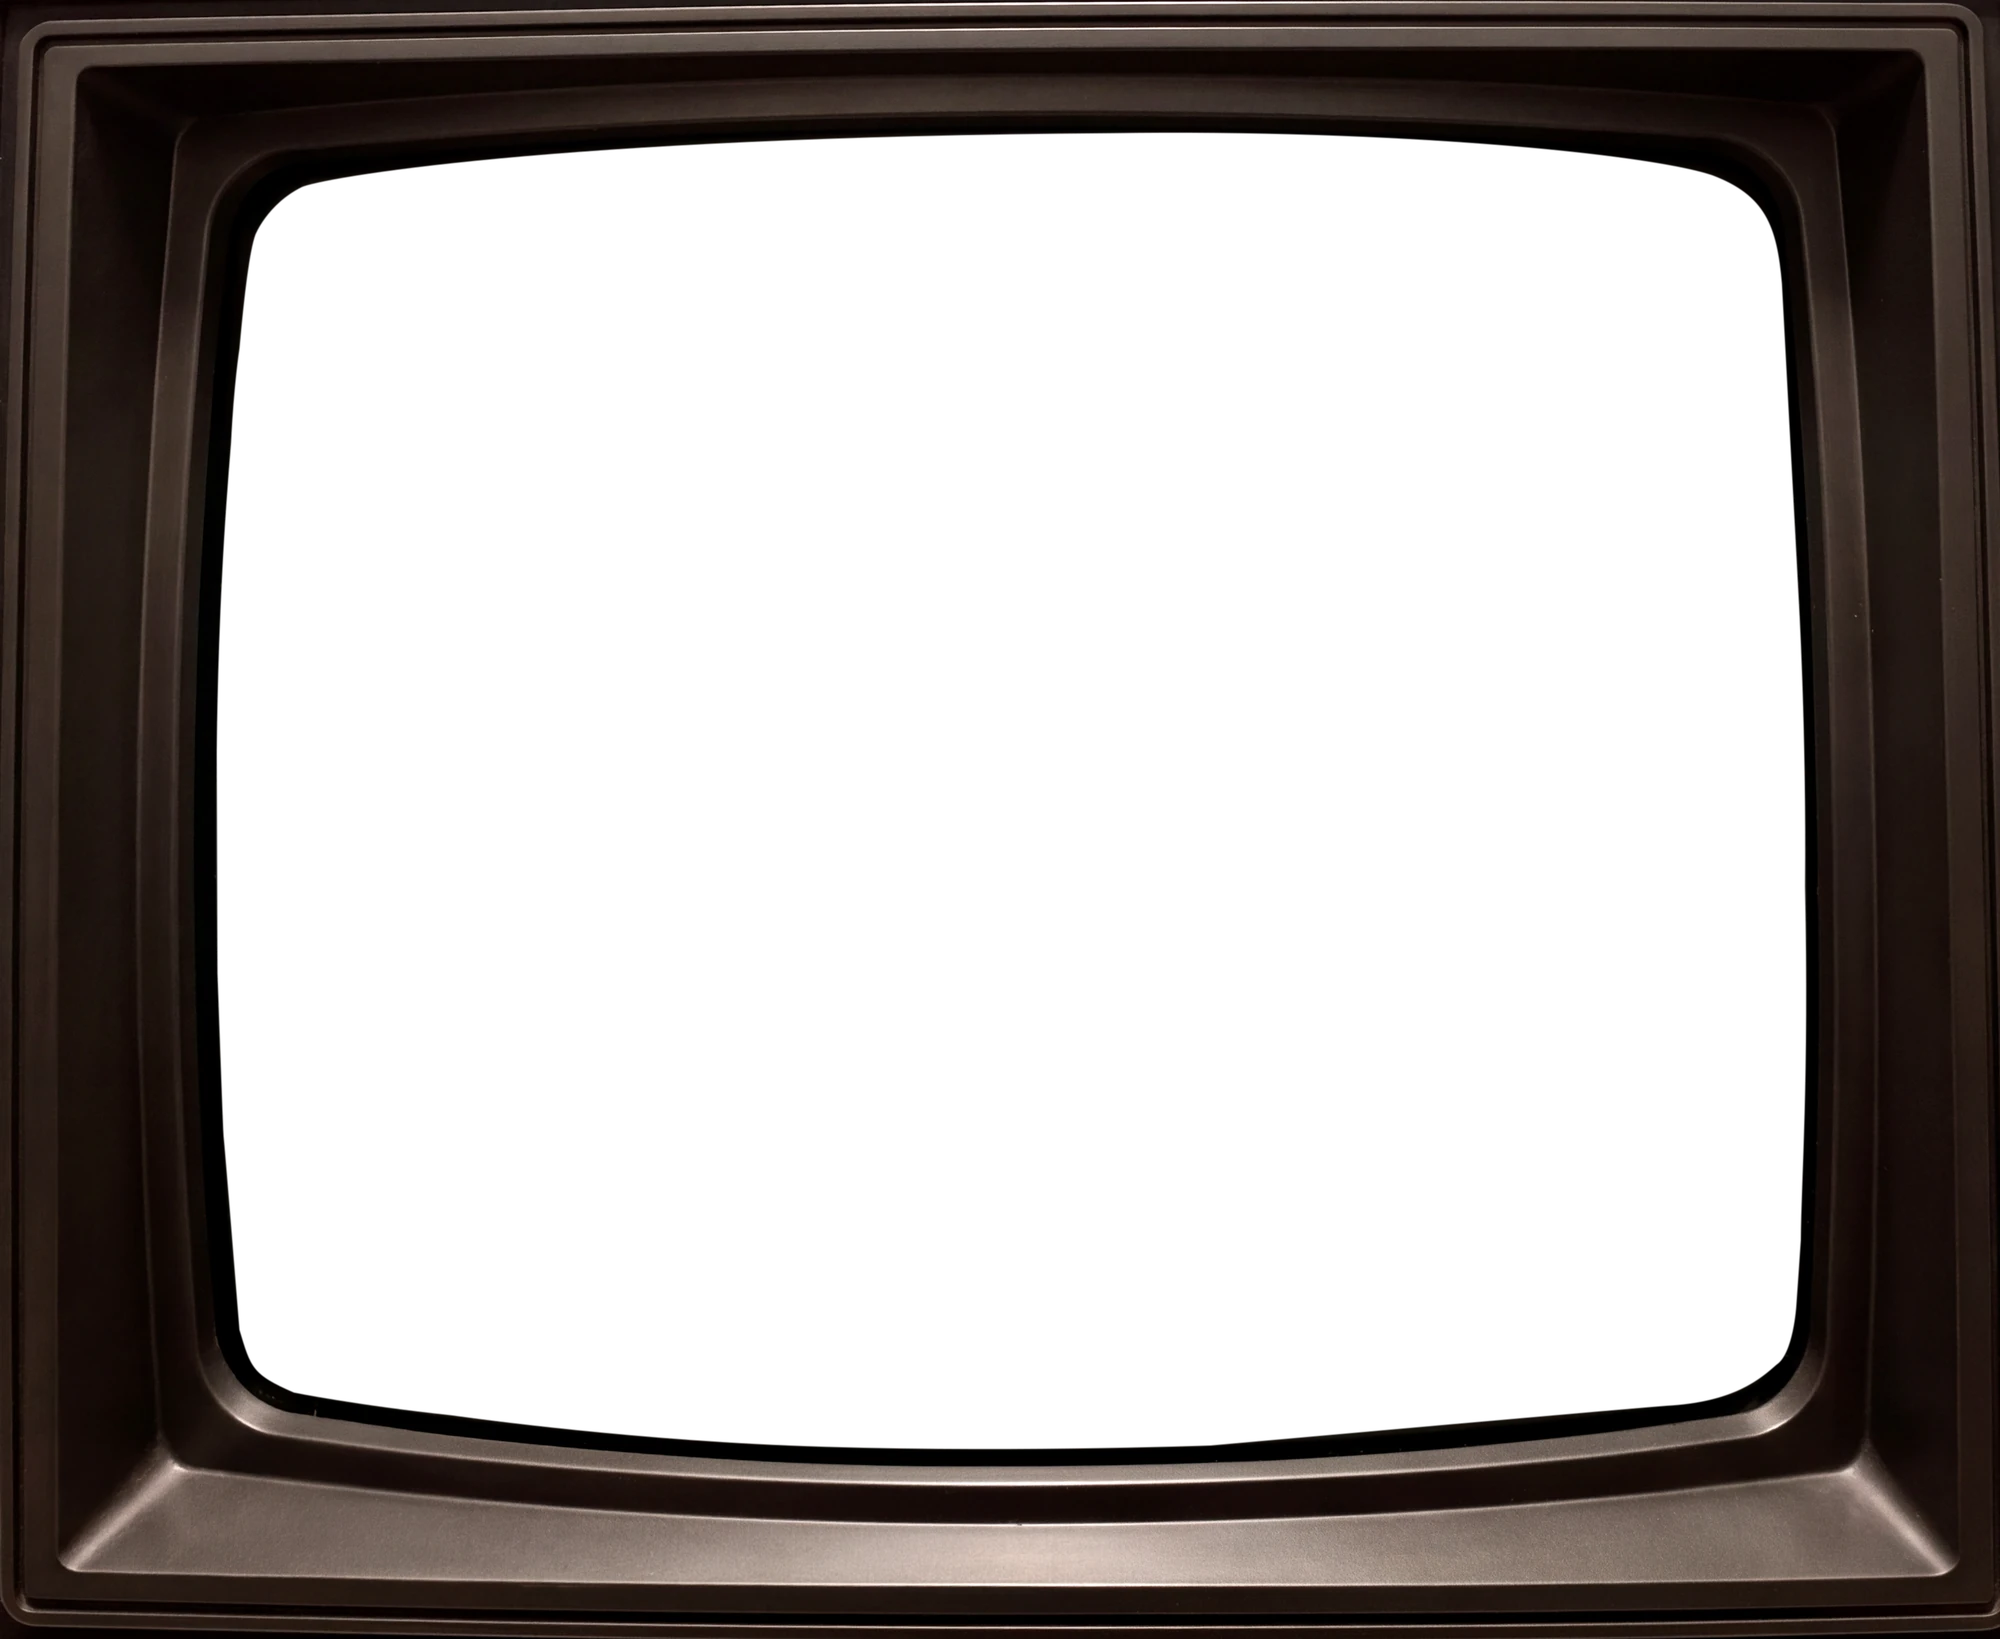
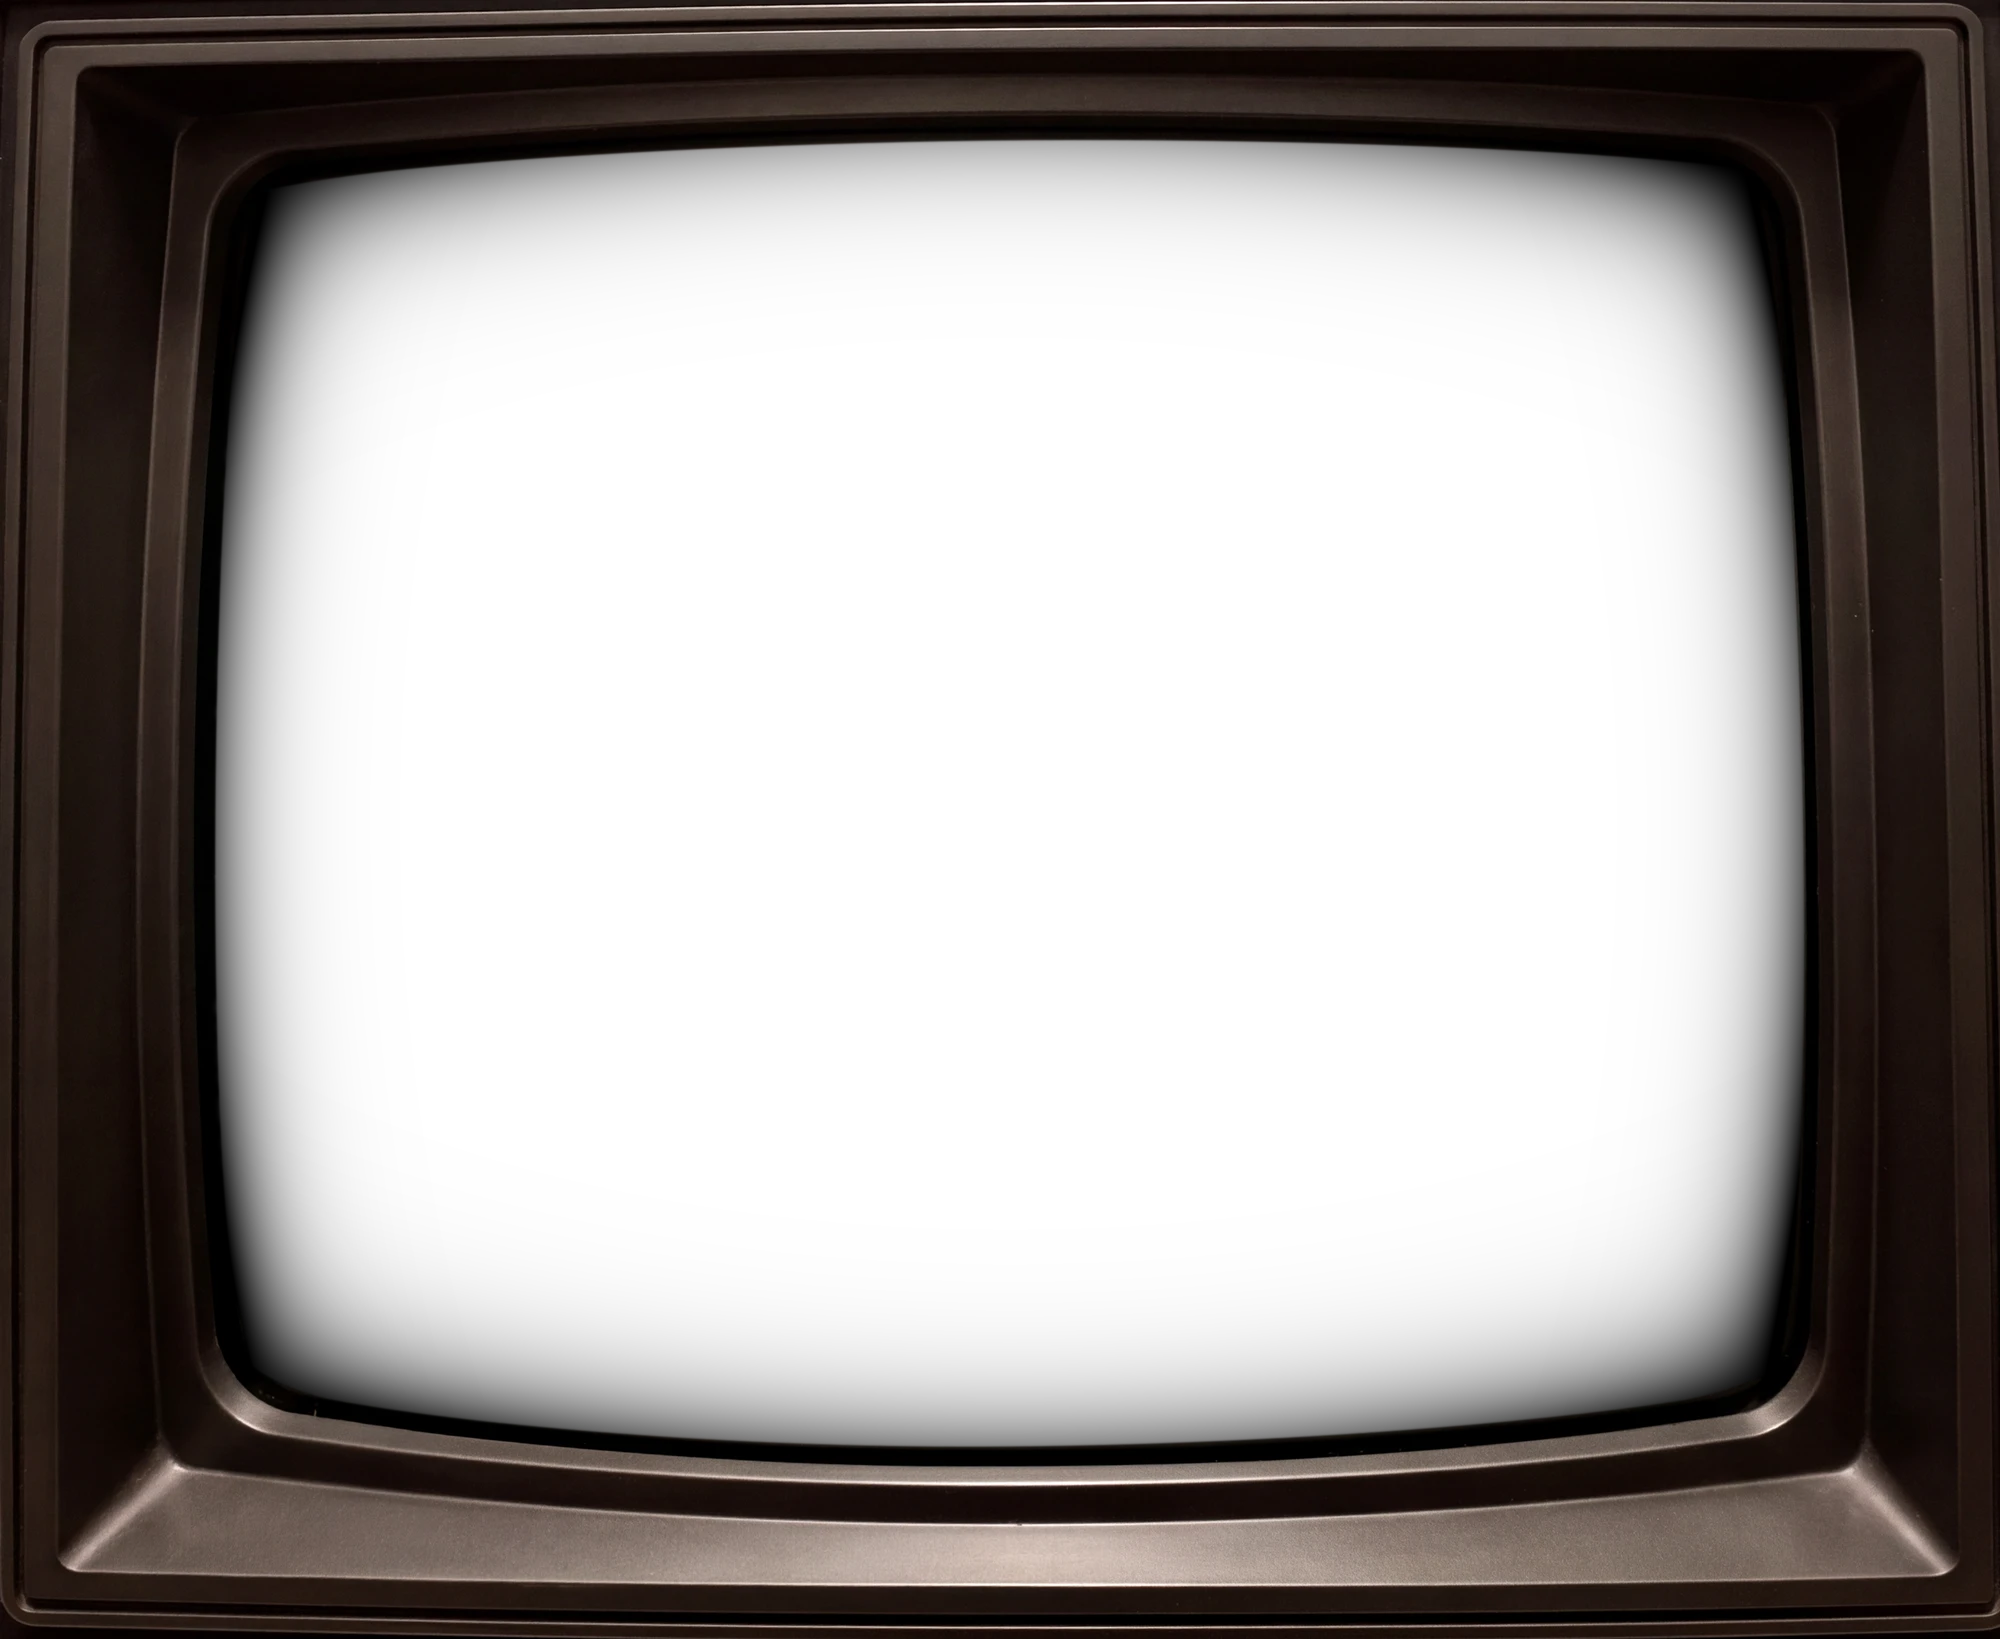
update frame and vignette baked in

Changed region(s): [[0.093, 0.0622, 0.93, 0.9024]]

diff --git a/public/assets/site.css b/public/assets/site.css
@@ -16,10 +16,10 @@
   /* the transparent "screen" cutout in the photographed TV frame sits at these fractions of the
      image, so content is inset by the same fractions of the viewport — they always line up,
      however the frame image gets stretched (background-size:100% 100%) at any window size. */
-  --crt-inset-top:7.6vh;
-  --crt-inset-right:10.1vw;
-  --crt-inset-bottom:11vh;
-  --crt-inset-left:11.2vw;
+  --crt-inset-top:13vh;
+  --crt-inset-right:14.1vw;
+  --crt-inset-bottom:17.4vh;
+  --crt-inset-left:14.9vw;
 }
 *,*::before,*::after{box-sizing:border-box;margin:0;padding:0}
 html{scroll-behavior:smooth}
@@ -137,14 +137,14 @@ footer{border-top:1px solid var(--border);padding:3rem 0 2rem;margin-top:6rem}
   background-size:100% 100%;
   background-repeat:no-repeat;
   background-position:center}
-/* strong dark falloff right at the screen edge — no expensive backdrop-filter (that's what was
-   stalling the page), just a heavy dark gradient so the edges fade toward black and melt into
-   the frame instead of showing a clean boundary */
+/* the frame photo now bakes its own vignette/falloff into the transparent cutout, so this layer
+   only adds the subtle light-reflection sheen plus a light residual falloff + a hairline seal
+   right at the true edge (no expensive backdrop-filter — that's what was stalling the page) */
 .crt-vignette{position:fixed;inset:0;margin:var(--crt-inset-top) var(--crt-inset-right) var(--crt-inset-bottom) var(--crt-inset-left);z-index:8997;pointer-events:none;
-  background:radial-gradient(70% 45% at 42% 18%,rgba(255,255,255,.07),rgba(255,255,255,0) 60%),
-    linear-gradient(115deg,transparent 38%,rgba(255,255,255,.045) 47%,rgba(255,255,255,.015) 52%,transparent 60%),
-    radial-gradient(120% 108% at 50% 50%,transparent 66%,rgba(0,0,0,.35) 85%,rgba(0,0,0,.8) 96%,#020203 100%);
-  box-shadow:inset 0 0 0 3px #020203,inset 0 0 1.4vw .4vw rgba(0,0,0,.65),inset 2vw 0 2.2vw -2vw rgba(0,0,0,.6),inset -2vw 0 2.2vw -2vw rgba(0,0,0,.6),inset 0 1.6vw 2vw -1.8vw rgba(0,0,0,.55),inset 0 -1.6vw 2vw -1.8vw rgba(0,0,0,.55)}
+  background:radial-gradient(70% 45% at 42% 18%,rgba(255,255,255,.06),rgba(255,255,255,0) 60%),
+    linear-gradient(115deg,transparent 40%,rgba(255,255,255,.035) 48%,rgba(255,255,255,.012) 52%,transparent 58%),
+    radial-gradient(120% 108% at 50% 50%,transparent 80%,rgba(0,0,0,.16) 92%,rgba(0,0,0,.38) 100%);
+  box-shadow:inset 0 0 0 2px rgba(0,0,0,.55),inset 0 0 .7vw .2vw rgba(0,0,0,.3),inset 1vw 0 1.2vw -1vw rgba(0,0,0,.3),inset -1vw 0 1.2vw -1vw rgba(0,0,0,.3),inset 0 .8vw 1vw -.9vw rgba(0,0,0,.28),inset 0 -.8vw 1vw -.9vw rgba(0,0,0,.28)}
 @keyframes vhsRoll{0%{background-position:0 0}100%{background-position:0 100px}}
 @keyframes vhsNoise{0%{transform:translate(0,0)}25%{transform:translate(-1.5%,1.5%)}50%{transform:translate(1.5%,-1.5%)}75%{transform:translate(-1.5%,-1.5%)}100%{transform:translate(0,0)}}
 .vhs-boot{position:fixed;inset:0;margin:var(--crt-inset-top) var(--crt-inset-right) var(--crt-inset-bottom) var(--crt-inset-left);overflow:hidden;z-index:20000;background:var(--ink);pointer-events:none;display:flex;align-items:center;justify-content:center;animation:vhsBootOut .55s ease-out forwards}

diff --git a/public/index.html b/public/index.html
@@ -36,10 +36,10 @@
       --glow-body:0 0 6px rgba(200,200,216,.35),0 0 14px rgba(200,200,216,.16);
       --glow-red:0 0 7px rgba(155,35,53,.55),0 0 16px rgba(155,35,53,.3);
       --glow-muted:0 0 5px rgba(90,90,114,.3);
-      --crt-inset-top:7.6vh;
-      --crt-inset-right:10.1vw;
-      --crt-inset-bottom:11vh;
-      --crt-inset-left:11.2vw;
+      --crt-inset-top:13vh;
+      --crt-inset-right:14.1vw;
+      --crt-inset-bottom:17.4vh;
+      --crt-inset-left:14.9vw;
     }
     *,*::before,*::after{box-sizing:border-box;margin:0;padding:0}
     html{scroll-behavior:smooth}
@@ -132,10 +132,10 @@
       background-repeat:no-repeat;
       background-position:center}
     .crt-vignette{position:fixed;inset:0;margin:var(--crt-inset-top) var(--crt-inset-right) var(--crt-inset-bottom) var(--crt-inset-left);z-index:8997;pointer-events:none;
-      background:radial-gradient(70% 45% at 42% 18%,rgba(255,255,255,.07),rgba(255,255,255,0) 60%),
-        linear-gradient(115deg,transparent 38%,rgba(255,255,255,.045) 47%,rgba(255,255,255,.015) 52%,transparent 60%),
-        radial-gradient(120% 108% at 50% 50%,transparent 66%,rgba(0,0,0,.35) 85%,rgba(0,0,0,.8) 96%,#020203 100%);
-      box-shadow:inset 0 0 0 3px #020203,inset 0 0 1.4vw .4vw rgba(0,0,0,.65),inset 2vw 0 2.2vw -2vw rgba(0,0,0,.6),inset -2vw 0 2.2vw -2vw rgba(0,0,0,.6),inset 0 1.6vw 2vw -1.8vw rgba(0,0,0,.55),inset 0 -1.6vw 2vw -1.8vw rgba(0,0,0,.55)}
+      background:radial-gradient(70% 45% at 42% 18%,rgba(255,255,255,.06),rgba(255,255,255,0) 60%),
+        linear-gradient(115deg,transparent 40%,rgba(255,255,255,.035) 48%,rgba(255,255,255,.012) 52%,transparent 58%),
+        radial-gradient(120% 108% at 50% 50%,transparent 80%,rgba(0,0,0,.16) 92%,rgba(0,0,0,.38) 100%);
+      box-shadow:inset 0 0 0 2px rgba(0,0,0,.55),inset 0 0 .7vw .2vw rgba(0,0,0,.3),inset 1vw 0 1.2vw -1vw rgba(0,0,0,.3),inset -1vw 0 1.2vw -1vw rgba(0,0,0,.3),inset 0 .8vw 1vw -.9vw rgba(0,0,0,.28),inset 0 -.8vw 1vw -.9vw rgba(0,0,0,.28)}
     @keyframes vhsRoll{0%{background-position:0 0}100%{background-position:0 100px}}
     @keyframes vhsNoise{0%{transform:translate(0,0)}25%{transform:translate(-1.5%,1.5%)}50%{transform:translate(1.5%,-1.5%)}75%{transform:translate(-1.5%,-1.5%)}100%{transform:translate(0,0)}}
     .vhs-boot{position:fixed;inset:0;margin:var(--crt-inset-top) var(--crt-inset-right) var(--crt-inset-bottom) var(--crt-inset-left);overflow:hidden;z-index:20000;background:var(--ink);pointer-events:none;display:flex;align-items:center;justify-content:center;animation:vhsBootOut .55s ease-out forwards}
